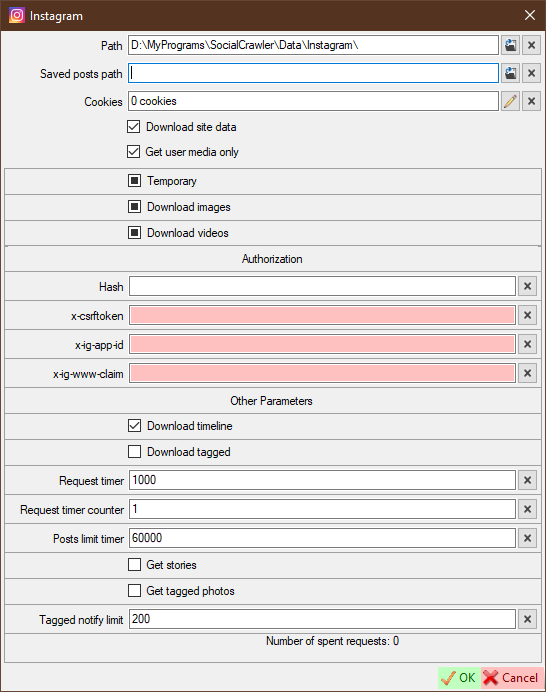
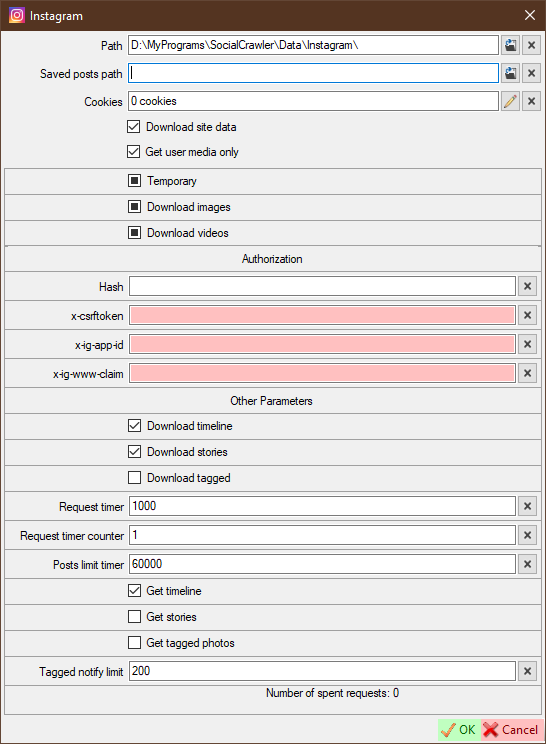
2022.12.27.0
XVideos: added 'Quickies'; fixed downloading.
Instagram: added more enable/disable options.

Changed region(s): [[0.0, 0.0, 0.9963, 1.0]]

diff --git a/Changelog.md b/Changelog.md
@@ -1,3 +1,13 @@
+# 2022.12.27.0
+
+*2022-12-27*
+
+- Added
+  - XVideos: added downloading 'Quickies'
+  - Instagram: added more enable/disable options
+- Fixed
+  - XVideos not downloading (sorry, I broke it in a previous release)
+
 # 2022.12.26.0
 
 *2022-12-26*
